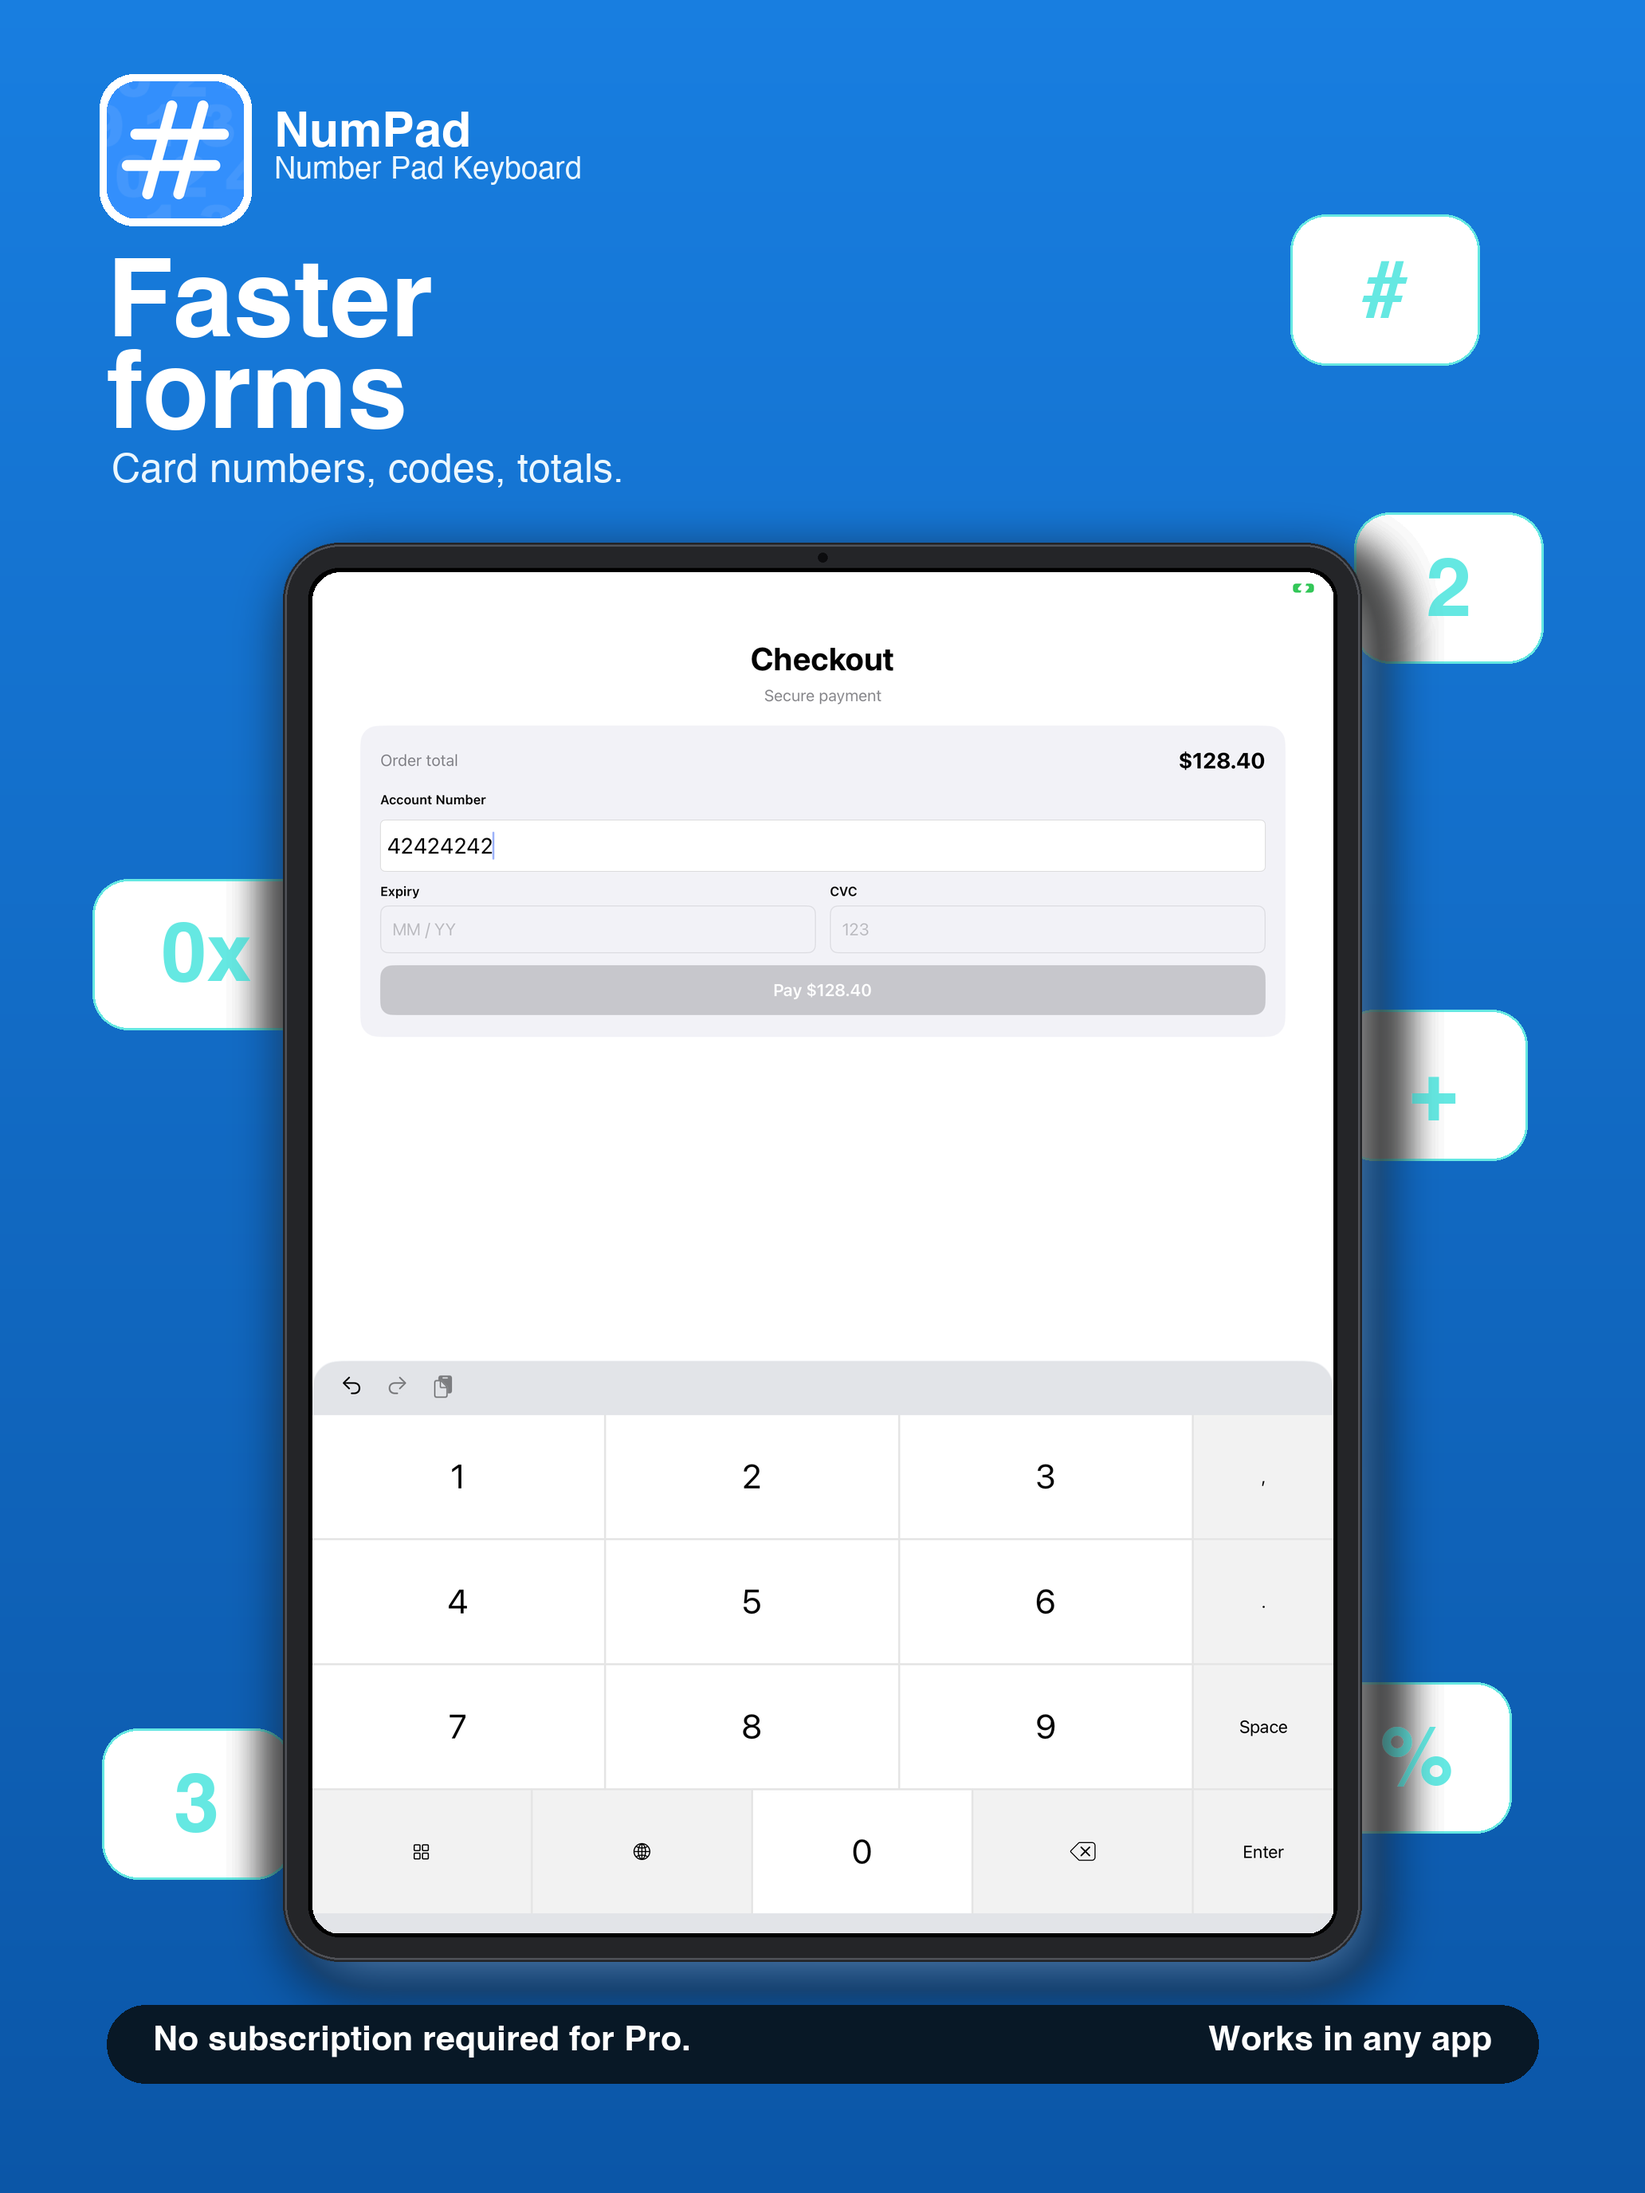
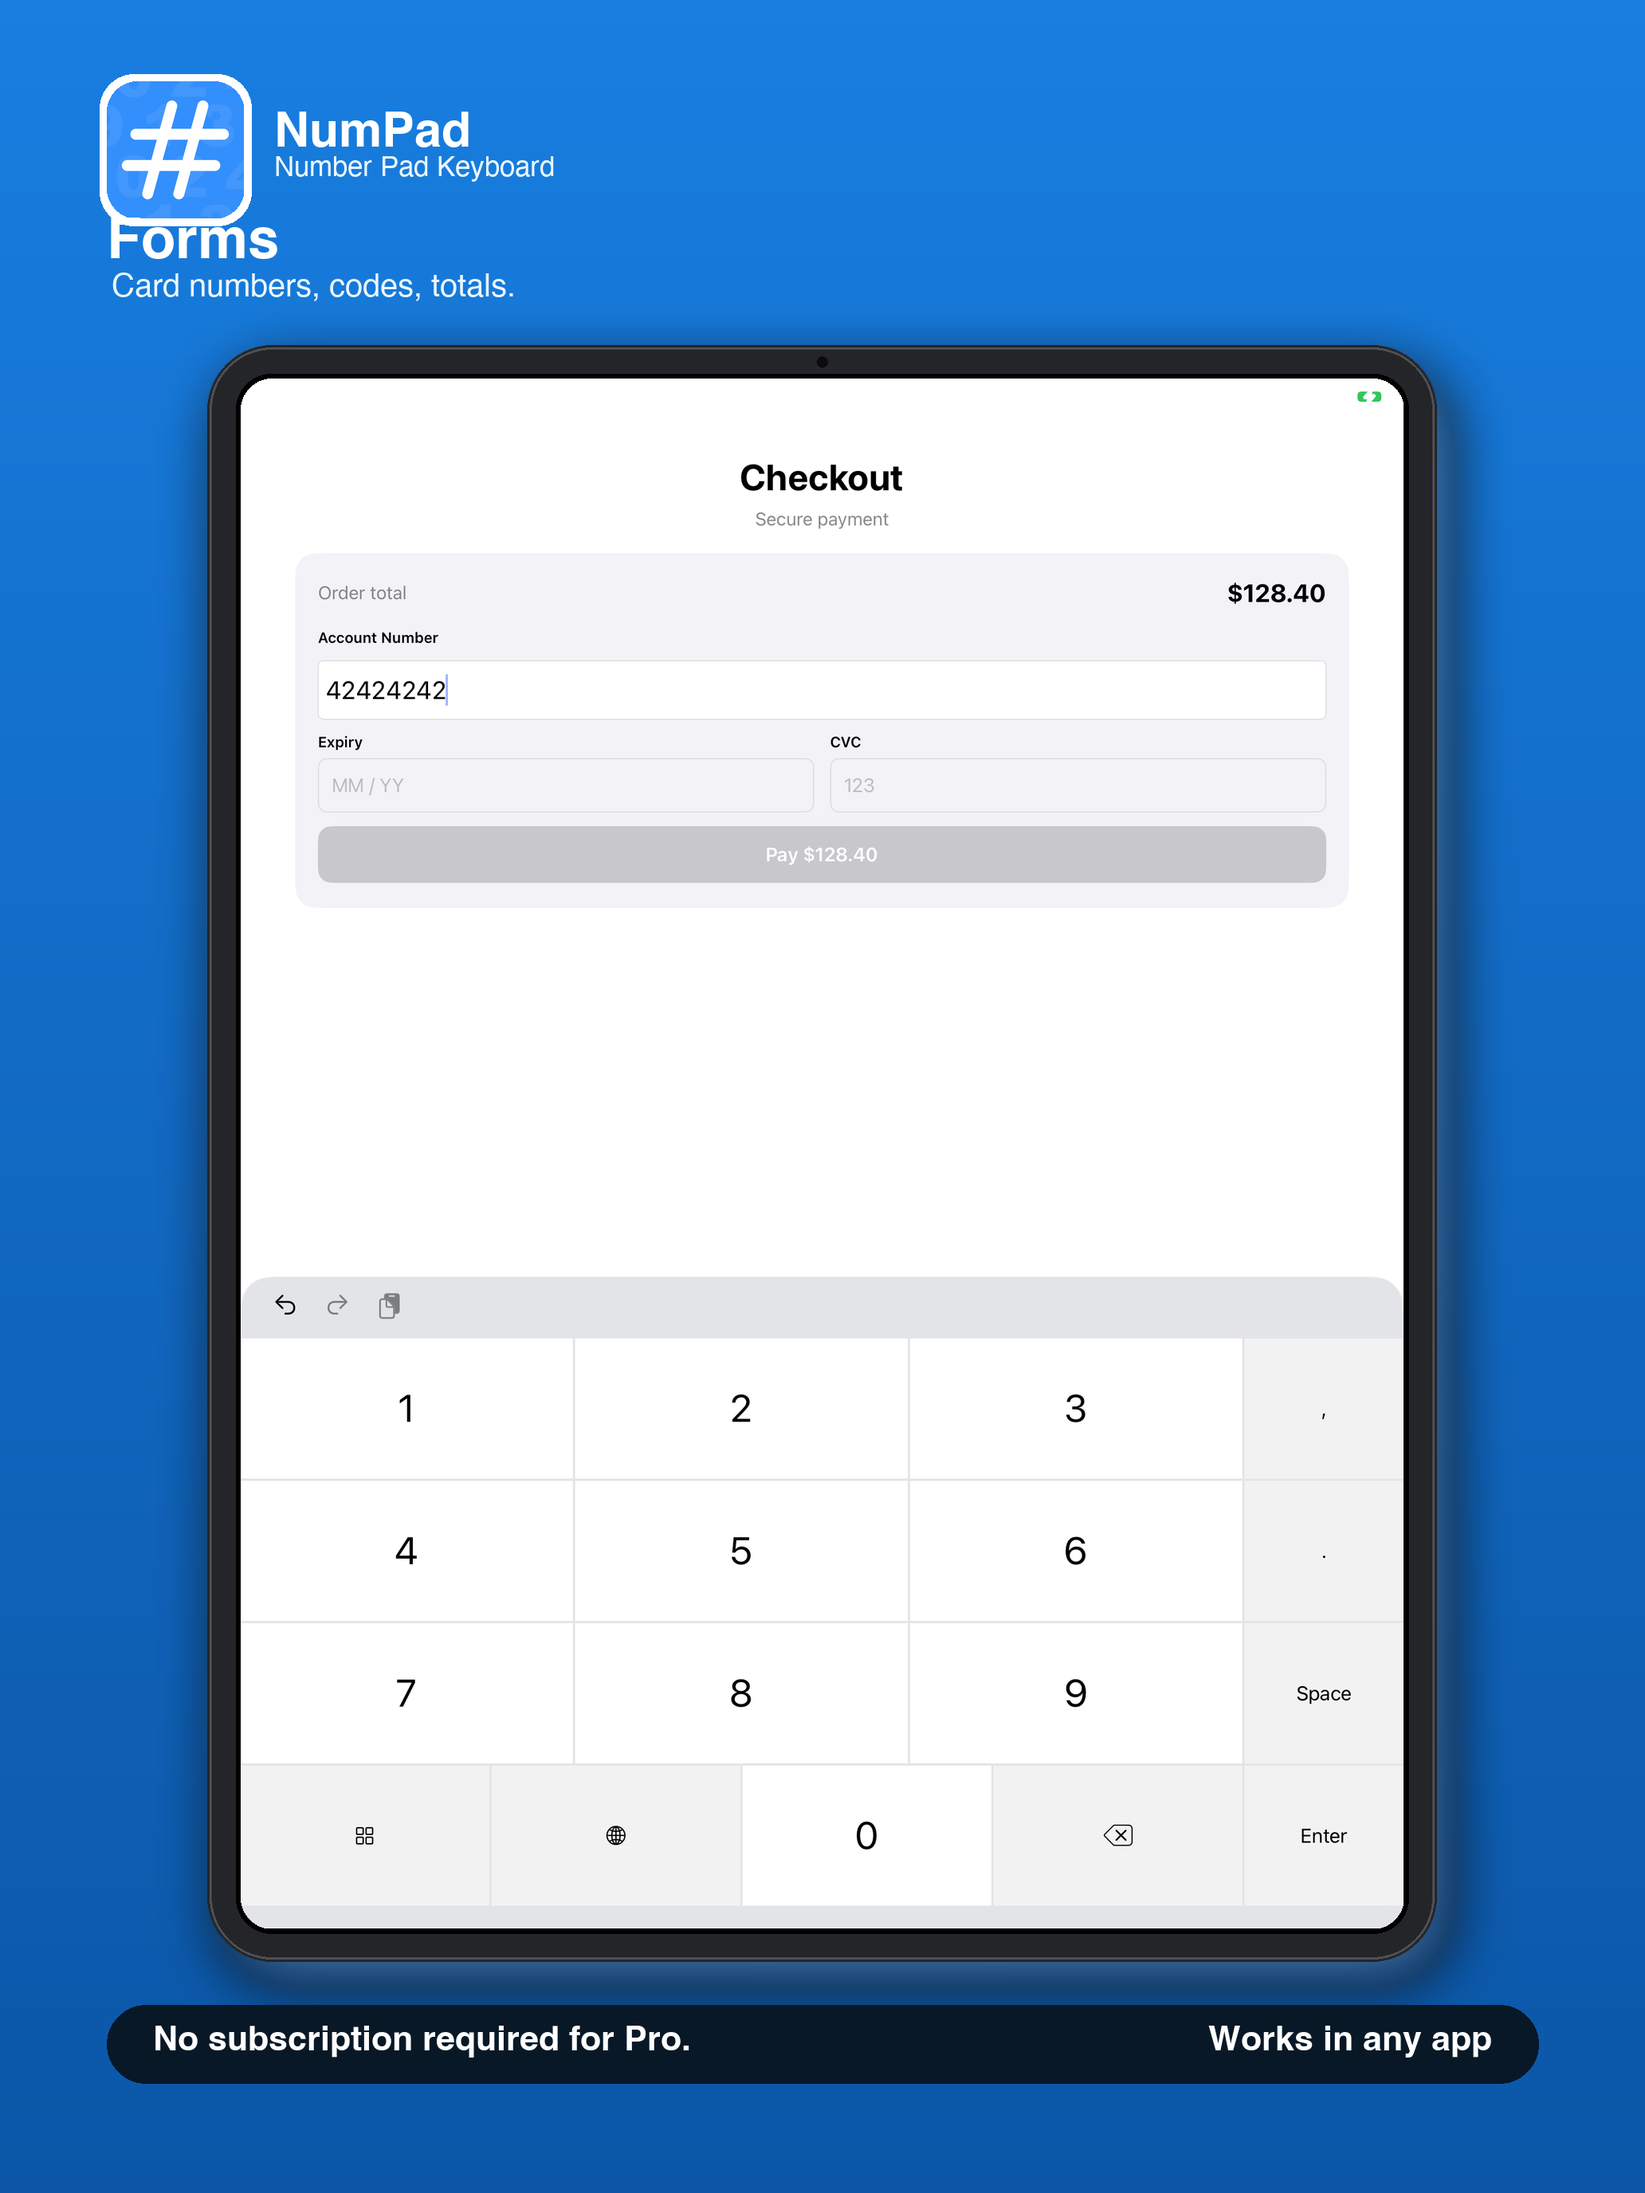
chore(marketing): iPad slides — bigger device, no stickers, crop 03/06
Compose PR #8 simulator raws with a larger iPad, no floating keys,
keyboard-band crop on tax/tip + clipboard, color crop on themes,
and headlines that describe the glass. No iPhone stretch. No ASC.

Changed region(s): [[0.031, 0.0938, 0.9612, 0.9375], [0.186, 0.0625, 0.3411, 0.0938]]

diff --git a/marketing/generate_app_store_screenshots.py b/marketing/generate_app_store_screenshots.py
@@ -41,7 +41,7 @@ IPAD_RAW_SLUGS = ["01-hero", "02-checkout", "03-taxtip", "04-clipboard", "05-pac
 IPAD_MOCKUP = ROOT / "marketing" / "assets" / "ipad-mockup.png"
 _IPAD_SCREEN_W, _IPAD_SCREEN_H, _IPAD_BEZEL = 1536, 2048, 44
 _IPAD_FRAME_RADIUS, _IPAD_SCREEN_RADIUS = 86, 42
-IPAD_DEVICE_W_MAX = 1480
+IPAD_DEVICE_W_MAX = 1920
 
 
 @dataclass(frozen=True)
@@ -856,8 +856,36 @@ LOCALE_TEXT: dict[str, dict] = {
 }
 
 
-def get_slide_text(slide_idx: int, field: str, locale: str, slide: "Slide") -> str:
+# iPad listing copy: describe the glass. No speed claims. English is source;
+# other locales fall back here so --ipad-only never ships "Faster forms".
+IPAD_TEXT: dict[tuple[int, str], str] = {
+    (0, "headline"): "Number pad",
+    (0, "subline"): "Same keys in every app.",
+    (1, "headline"): "Forms",
+    (1, "subline"): "Card numbers, codes, totals.",
+    (2, "headline"): "Tax and tip",
+    (2, "subline"): "The side panel on iPad.",
+    (3, "headline"): "Clipboard",
+    (3, "subline"): "Recent numbers, on-device.",
+    (4, "headline"): "Work packs",
+    (4, "subline"): "Finance, symbols, math, code.",
+    (5, "headline"): "Themes",
+    (5, "subline"): "The keyboard takes the color.",
+}
+
+# Normalized crop of marketing/raw/ipad/*.png (2048x2732). 03/04: keyboard + 360pt
+# trailing panel. 06: theme swatches + purple preview, drop empty gray.
+IPAD_CROPS: dict[int, tuple[float, float, float, float]] = {
+    2: (0.0, 0.50, 1.0, 1.0),
+    3: (0.0, 0.50, 1.0, 1.0),
+    5: (0.0, 0.0, 1.0, 0.52),
+}
+
+
+def get_slide_text(slide_idx: int, field: str, locale: str, slide: "Slide", *, ipad: bool = False) -> str:
     """Return localized text for a slide, falling back to English defaults."""
+    if ipad and (slide_idx, field) in IPAD_TEXT:
+        return IPAD_TEXT[(slide_idx, field)]
     loc = LOCALE_TEXT.get(locale, {})
     # Slide-specific fields
     key = (slide_idx, field)
@@ -1156,12 +1184,17 @@ def _build_ipad_frame() -> None:
     frame.save(IPAD_MOCKUP)
 
 
-def make_ipad(source: Path, width: int) -> Image.Image:
+def make_ipad(source: Path, width: int, crop: tuple[float, float, float, float] | None = None) -> Image.Image:
     """Composite an iPad raw screenshot into the generated iPad device frame."""
     if not IPAD_MOCKUP.exists():
         _build_ipad_frame()
     frame = Image.open(IPAD_MOCKUP).convert("RGBA")
     shot = Image.open(source).convert("RGBA")
+    if crop is not None:
+        left, top, right, bottom = crop
+        w, h = shot.size
+        box = (int(left * w), int(top * h), int(right * w), int(bottom * h))
+        shot = shot.crop(box)
     scale = width / frame.width
     device = frame.resize((width, round(frame.height * scale)), Image.Resampling.LANCZOS)
 
@@ -1249,30 +1282,7 @@ def render_slide_ipad(slide: Slide, locale: str = "en", slide_idx: int = 0) -> I
     canvas = gradient(slide.top, slide.bottom, w, h)
     d = ImageDraw.Draw(canvas, "RGBA")
 
-    # Key pattern — manually positioned for 2064-wide iPad canvas
-    labels = ["#", "2", "0x", "+", "%", "3"]
-    max_kw = round(226 * s_avg)
-    positions_ipad = [
-        (w - max_kw - 160, round(280 * sy)),
-        (w - max_kw - 80,  round(670 * sy)),
-        (round(74 * sx),   round(1150 * sy)),
-        (w - max_kw - 100, round(1320 * sy)),
-        (w - max_kw - 120, round(2200 * sy)),
-        (round(82 * sx),   round(2260 * sy)),
-    ]
-    fill_kp = (255, 255, 255, 44 if not slide.dark_text else 82)
-    outline_kp = slide.accent + (80,)
-    key_font_ipad = font(round(82 * s_avg), bold=True)
-    for label, (kx, ky) in zip(labels, positions_ipad):
-        kw = round((188 if len(label) <= 1 else 226) * s_avg)
-        kh = round(150 * s_avg)
-        radius = round(36 * s_avg)
-        d.rounded_rectangle((kx, ky, kx + kw, ky + kh), radius=radius, fill=fill_kp, outline=outline_kp, width=3)
-        box = d.textbbox((0, 0), label, font=key_font_ipad)
-        tx = kx + (kw - (box[2] - box[0])) / 2
-        ty = ky + (kh - (box[3] - box[1])) / 2 - 8
-        alpha = 100 if slide.dark_text else 128
-        d.text((tx, ty), label, font=key_font_ipad, fill=slide.accent + (alpha,))
+    # No floating key stickers on iPad — they hide the real pad and 360pt panel.
 
     text_color = (22, 32, 46, 255) if slide.dark_text else (255, 255, 255, 255)
     muted = (63, 76, 92, 230) if slide.dark_text else (235, 247, 255, 230)
@@ -1293,19 +1303,19 @@ def render_slide_ipad(slide: Slide, locale: str = "en", slide_idx: int = 0) -> I
     )
     canvas.paste(icon, (ix, iy), icon_mask)
     d.text((ix + icon_size + round(30 * s_avg), iy + round(36 * sy)), "NumPad", font=font(round(48 * s_avg), bold=True), fill=text_color)
-    app_sub = get_slide_text(slide_idx, "app_subtitle", locale, slide)
-    d.text((ix + icon_size + round(30 * s_avg), iy + round(96 * sy)), app_sub, font=font(round(30 * s_avg), locale=locale), fill=muted)
+    app_sub = get_slide_text(slide_idx, "app_subtitle", locale, slide, ipad=True)
+    d.text((ix + icon_size + round(30 * s_avg), iy + round(96 * sy)), app_sub, font=font(round(28 * s_avg), locale=locale), fill=muted)
 
-    # Headline and subline
-    headline = get_slide_text(slide_idx, "headline", locale, slide)
-    subline = get_slide_text(slide_idx, "subline", locale, slide)
+    # Headline and subline — one line, small, so the device can fill the frame.
+    headline = get_slide_text(slide_idx, "headline", locale, slide, ipad=True)
+    subline = get_slide_text(slide_idx, "subline", locale, slide, ipad=True)
     hl_x = round(86 * sx)
-    hl_y = round(330 * sy)
-    hl_font = font(round(108 * s_avg), bold=True, locale=locale)
-    hl_bottom = draw_multiline(d, headline, (hl_x, hl_y), hl_font, text_color, round(12 * s_avg))
-    sub_y = hl_bottom + round(18 * sy)
-    d.text((hl_x + round(4 * sx), sub_y), subline, font=font(round(40 * s_avg), locale=locale), fill=muted)
-    sub_bottom = sub_y + round(72 * sy)
+    hl_y = round(280 * sy)
+    hl_font = font(round(56 * s_avg), bold=True, locale=locale)
+    hl_bottom = draw_multiline(d, headline, (hl_x, hl_y), hl_font, text_color, round(8 * s_avg))
+    sub_y = hl_bottom + round(10 * sy)
+    d.text((hl_x + round(4 * sx), sub_y), subline, font=font(round(32 * s_avg), locale=locale), fill=muted)
+    sub_bottom = sub_y + round(48 * sy)
 
     # iPad device — genuine iPad raw inside the generated iPad frame, centred and
     # sized to fit the space below the headline (portrait, ~4:3 aspect).
@@ -1315,15 +1325,15 @@ def render_slide_ipad(slide: Slide, locale: str = "en", slide_idx: int = 0) -> I
     aspect = (_IPAD_SCREEN_H + 2 * _IPAD_BEZEL) / (_IPAD_SCREEN_W + 2 * _IPAD_BEZEL)
     device_w = min(IPAD_DEVICE_W_MAX, round(avail_h / aspect))
     ipad_source = IPAD_RAW / f"{IPAD_RAW_SLUGS[slide_idx]}.png"
-    device = make_ipad(ipad_source, device_w)
+    device = make_ipad(ipad_source, device_w, crop=IPAD_CROPS.get(slide_idx))
     device_x = (w - device.width) // 2
     device_y = avail_top + (avail_h - device.height) // 2
     canvas.alpha_composite(shadow_layer(device, (device_x, device_y), canvas.size))
     canvas.alpha_composite(device, (device_x, device_y))
 
     # Footer
-    footer_left = get_slide_text(slide_idx, "footer_left", locale, slide)
-    footer_right = get_slide_text(slide_idx, "footer_right", locale, slide)
+    footer_left = get_slide_text(slide_idx, "footer_left", locale, slide, ipad=True)
+    footer_right = get_slide_text(slide_idx, "footer_right", locale, slide, ipad=True)
     footer_fill = (255, 255, 255, 190) if slide.dark_text else (8, 24, 38, 132)
     footer_color = (24, 48, 74, 230) if slide.dark_text else (255, 255, 255, 238)
     footer_y1 = round(2622 * sy)
